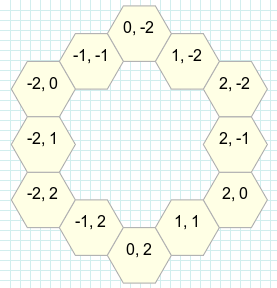
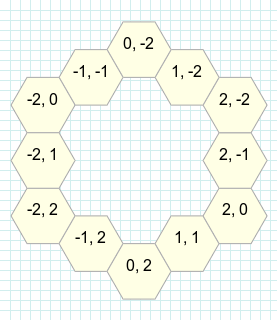
fix flat topped grid orientation; fix auto markup values;

Changed region(s): [[0.0, 0.0, 1.0, 1.0]]

diff --git a/lib/rhex/cube_hex.rb b/lib/rhex/cube_hex.rb
@@ -55,16 +55,22 @@ module Rhex
       self == other
     end
 
-    def reflection_q
-      Rhex::CubeHex.new(q, s, r)
+    def reflection_q(reference_point = Rhex::CubeHex.new(0, 0, 0))
+      with_reflection(reference_point) do |subtracted_hex|
+        Rhex::CubeHex.new(subtracted_hex.q, subtracted_hex.s, subtracted_hex.r)
+      end
     end
 
-    def reflection_r
-      Rhex::CubeHex.new(s, r, q)
+    def reflection_r(reference_point = Rhex::CubeHex.new(0, 0, 0))
+      with_reflection(reference_point) do |subtracted_hex|
+        Rhex::CubeHex.new(subtracted_hex.s, subtracted_hex.r, subtracted_hex.q)
+      end
     end
 
-    def reflection_s
-      Rhex::CubeHex.new(r, q, s)
+    def reflection_s(reference_point = Rhex::CubeHex.new(0, 0, 0))
+      with_reflection(reference_point) do |subtracted_hex|
+        Rhex::CubeHex.new(subtracted_hex.r, subtracted_hex.q, subtracted_hex.s)
+      end
     end
 
     def reachable(movements_limit = 1, obstacles: []) # rubocop:disable Metrics/MethodLength
@@ -185,9 +191,15 @@ module Rhex
       Rhex::CubeHex.new(rounded_q, rounded_r, rounded_s, data: data, image_config: image_config)
     end
 
-
-
     private
+
+    # To reflect over a line that's not at 0, pick a reference point on that line.
+    # Subtract the reference point, perform the reflection, then add the reference point back.
+    def with_reflection(reference_point, &block)
+      subtracted_hex = subtract(reference_point)
+      reflected_hex = block.call(subtracted_hex)
+      reflected_hex.add(reference_point)
+    end
 
     def cube_hex_lerp(hex, step)
       Rhex::CubeHex.new(

diff --git a/lib/rhex/decorators/grid_with_markup.rb b/lib/rhex/decorators/grid_with_markup.rb
@@ -14,10 +14,8 @@ module Rhex
         @top_left_corner ||= Rhex::AxialHex.new(q_map.min, r_map.min)
       end
 
-      # To reflect over a line that's not at 0, pick a reference point on that line.
-      # Subtract the reference point, perform the reflection, then add the reference point back.
       def top_right_corner
-        @top_right_corner ||= central_hex.subtract(top_left_corner).reflection_q.add(central_hex)
+        @top_right_corner ||= Rhex::AxialHex.new(q_map.min, r_map.max)
       end
 
       def bottom_right_corner
@@ -25,7 +23,7 @@ module Rhex
       end
 
       def bottom_left_corner
-        @bottom_left_corner ||= central_hex.subtract(bottom_right_corner).reflection_q.add(central_hex)
+        @bottom_left_corner ||= Rhex::AxialHex.new(q_map.max, r_map.min)
       end
 
       private

diff --git a/lib/rhex/canvas_markups/auto_canvas_markup.rb b/lib/rhex/canvas_markups/auto_canvas_markup.rb
@@ -13,13 +13,14 @@ module Rhex
         @grid = Rhex::Decorators::GridWithMarkup.new(grid)
       end
 
+      # width
       def cols
-        @cols ||=
-          top_left_corner.distance(top_right_corner) * central_hex.height
+        @cols ||= top_left_corner.distance(bottom_left_corner) * central_hex.height + central_hex.height
       end
 
+      # height
       def rows
-        @rows ||= top_left_corner.distance(bottom_left_corner) * central_hex.width
+        @rows ||= top_left_corner.distance(top_right_corner) * central_hex.width + central_hex.width
       end
 
       def center

diff --git a/lib/rhex/concerns/oriented_grid.rb b/lib/rhex/concerns/oriented_grid.rb
@@ -9,6 +9,8 @@ module Rhex
         super(hexes)
       end
 
+      attr_reader :hex_size
+
       def add(hex)
         @hash[key(hex)] = decorate_hex(hex)
         self
@@ -19,8 +21,6 @@ module Rhex
       end
 
       private
-
-      attr_reader :hex_size
 
       def hex_decorator_class
         raise NotImplementedError

diff --git a/lib/rhex/decorators/flat_topped_hex.rb b/lib/rhex/decorators/flat_topped_hex.rb
@@ -31,11 +31,11 @@ module Rhex
       private
 
       def absolute_coordinate_x
-        width * 3 / 4 * r
+        width * 3 / 4 * q
       end
 
       def absolute_coordinate_y
-        height * (q + r / 2.0)
+        height * (r + q / 2.0)
       end
     end
   end
